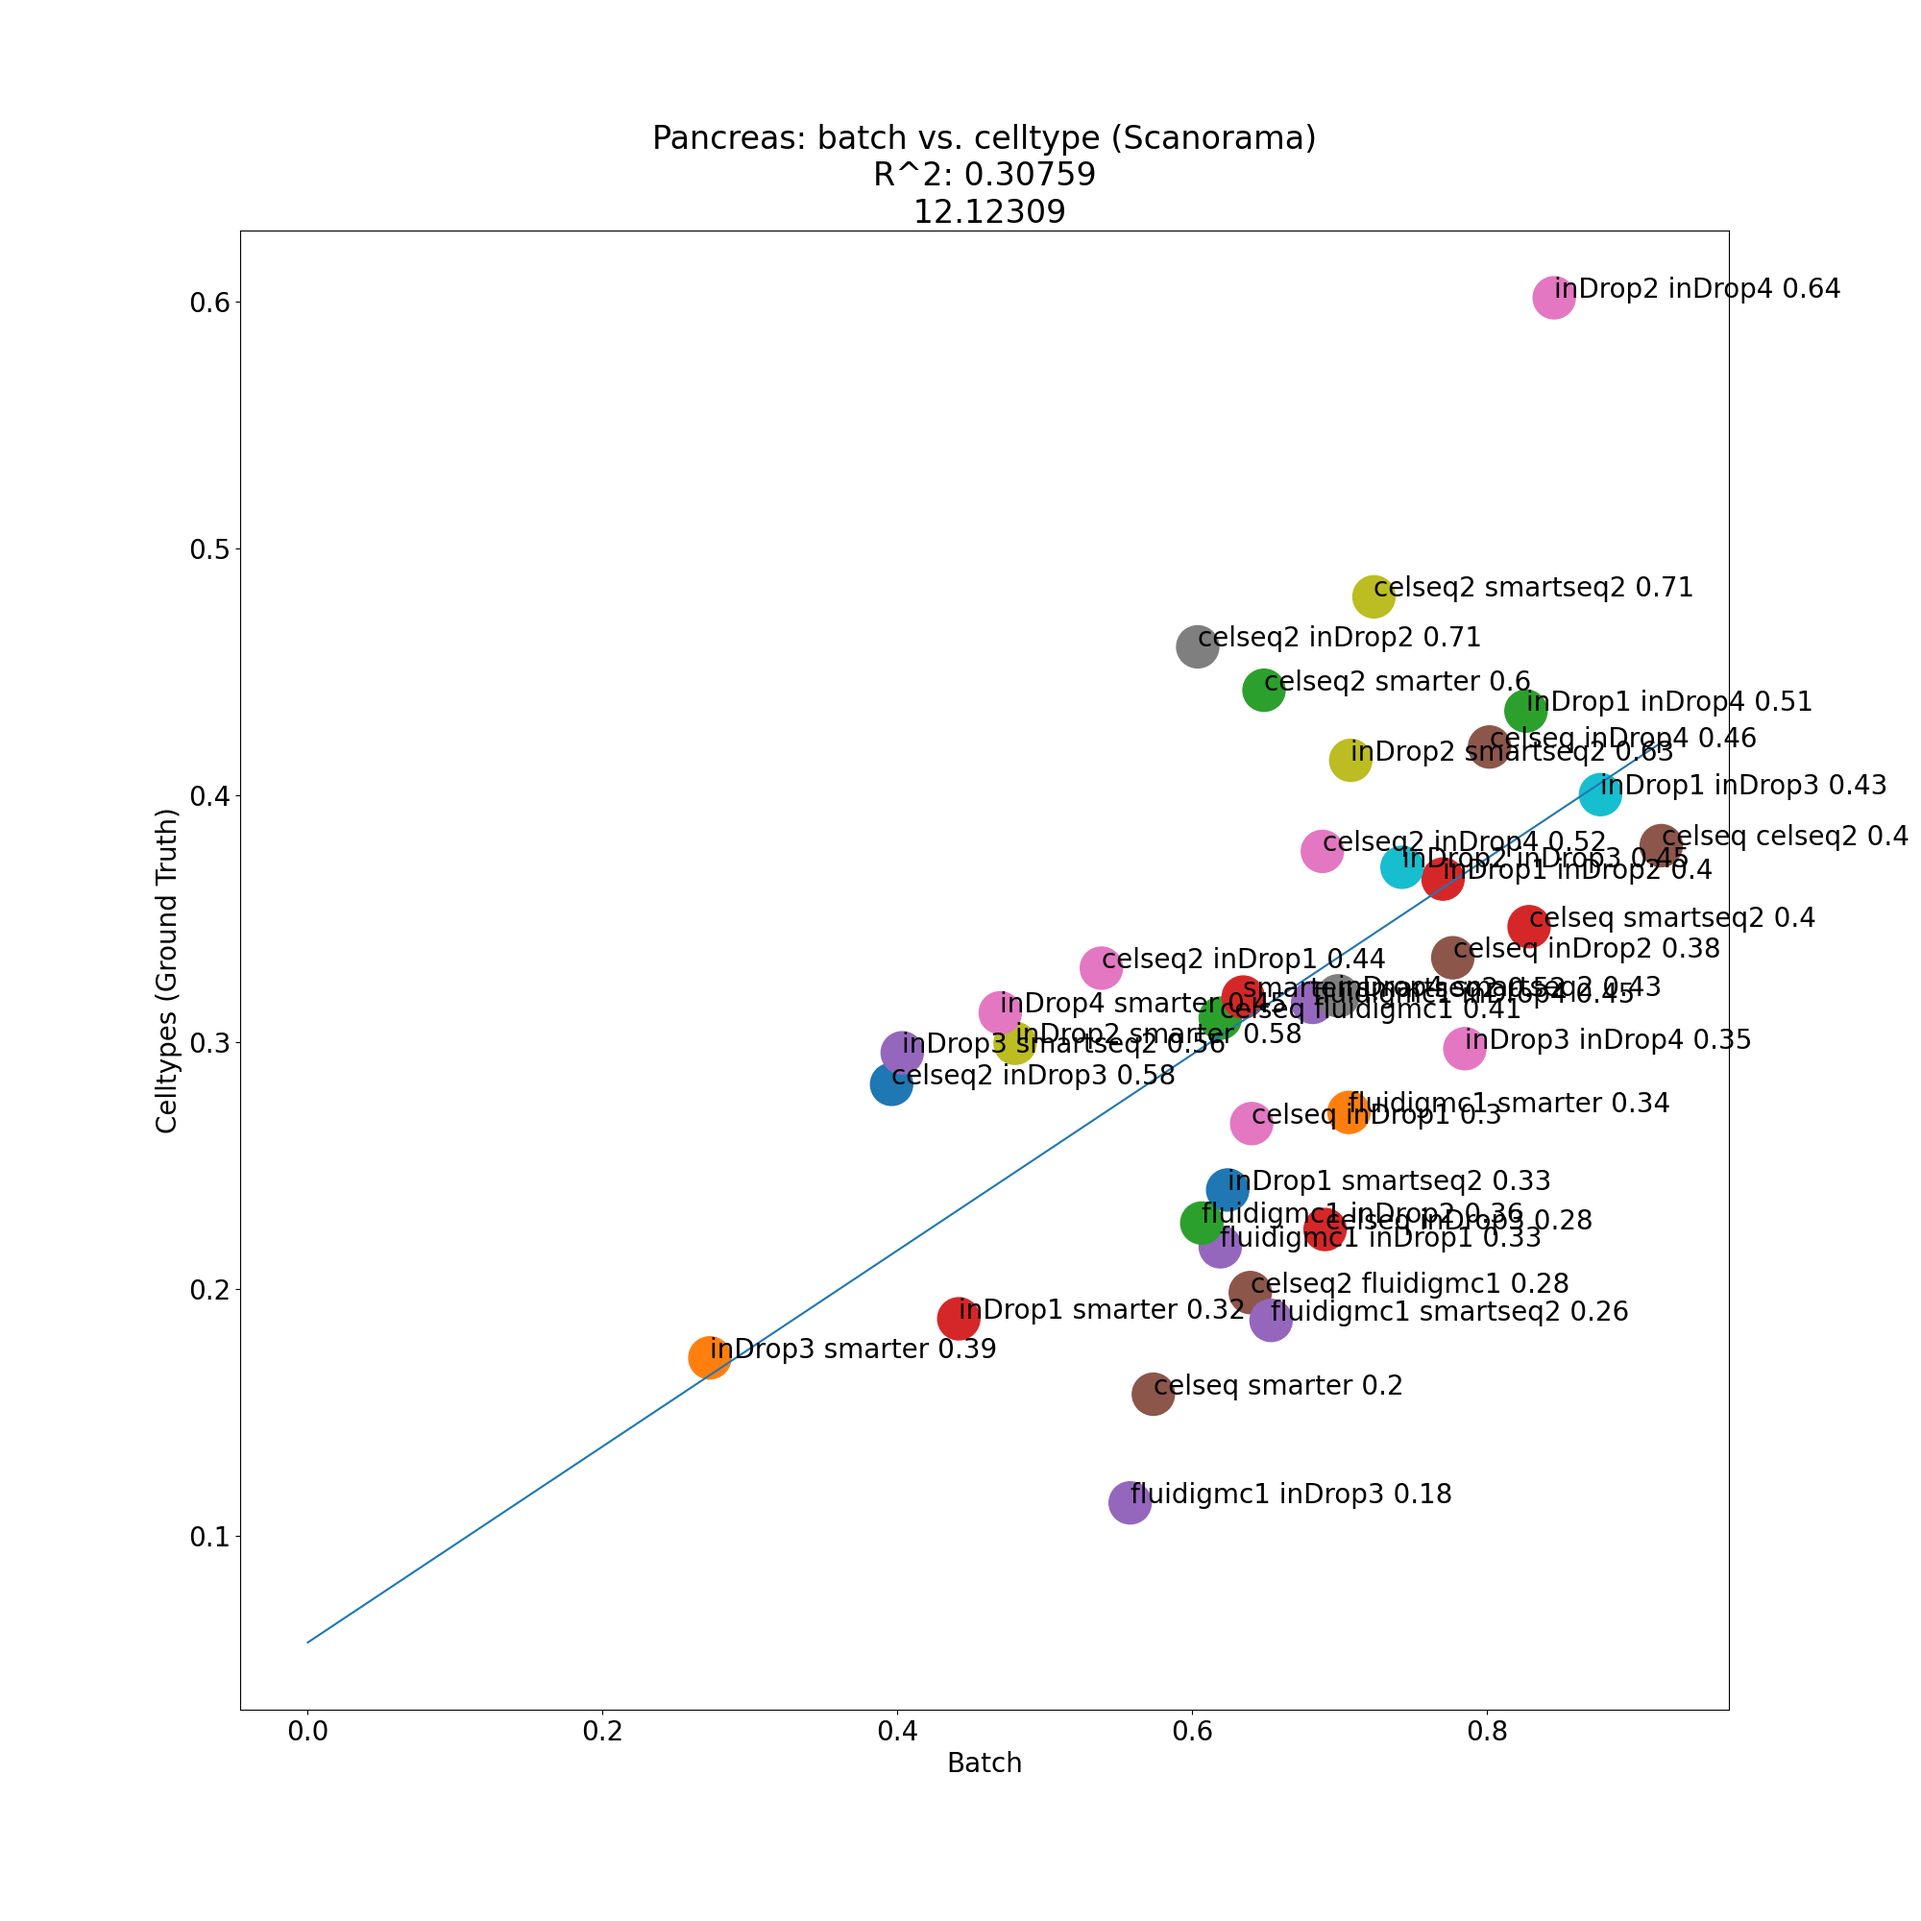
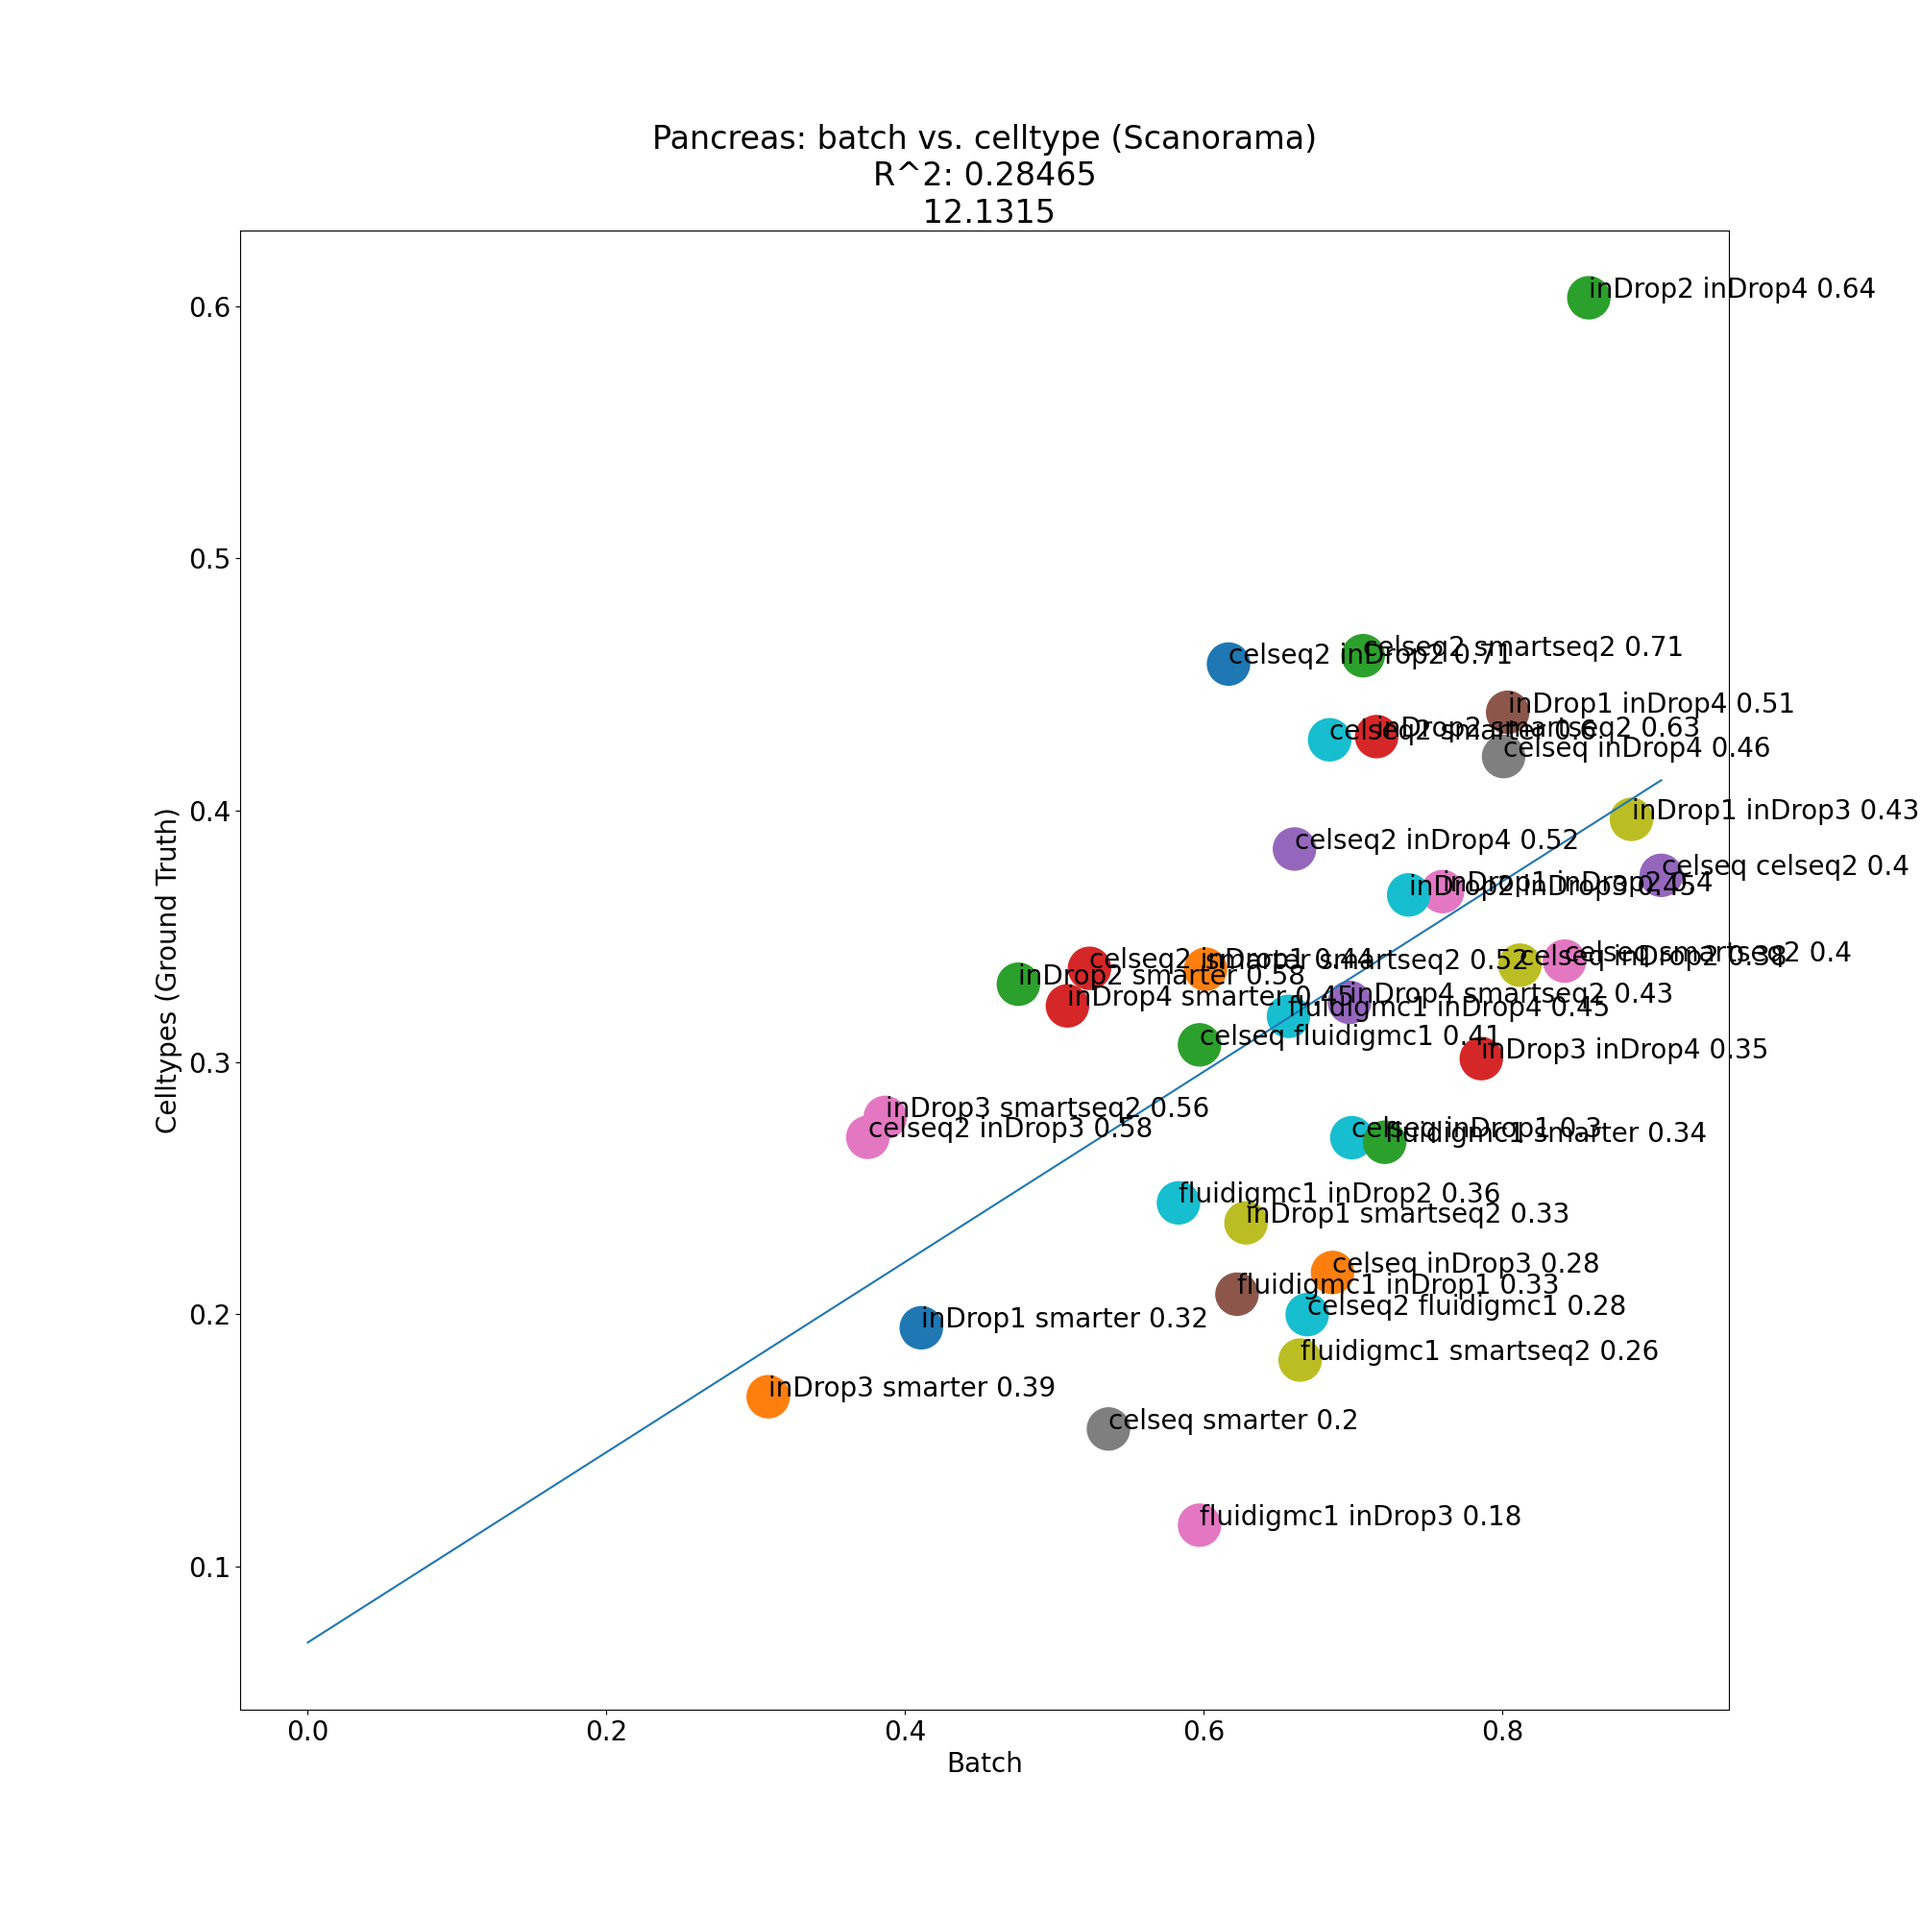
Finished

diff --git a/src/library/runner.py b/src/library/runner.py
@@ -106,8 +106,8 @@ def seurat_run():
 # main
 if __name__ == "__main__":
     print("1")
-    # run(algorithm=scanorama, dataset_normalize=scib_normalize, verbose=False)
-    # run(algorithm=scanorama, dataset_normalize=scib_normalize, combiner=amwjmsi, verbose=False)
+    run(algorithm=scanorama, dataset_normalize=scib_normalize, verbose=False)
+    run(algorithm=scanorama, dataset_normalize=scib_normalize, combiner=amwjmsi, verbose=False)
     # print("2")
     # run(algorithm=scanorama, batch_normalize=scib_normalize, celltype_normalize=None, verbose=False)
     # run(algorithm=scanorama, batch_normalize=scib_normalize, celltype_normalize=None, combiner=amwjmsi, verbose=False)
